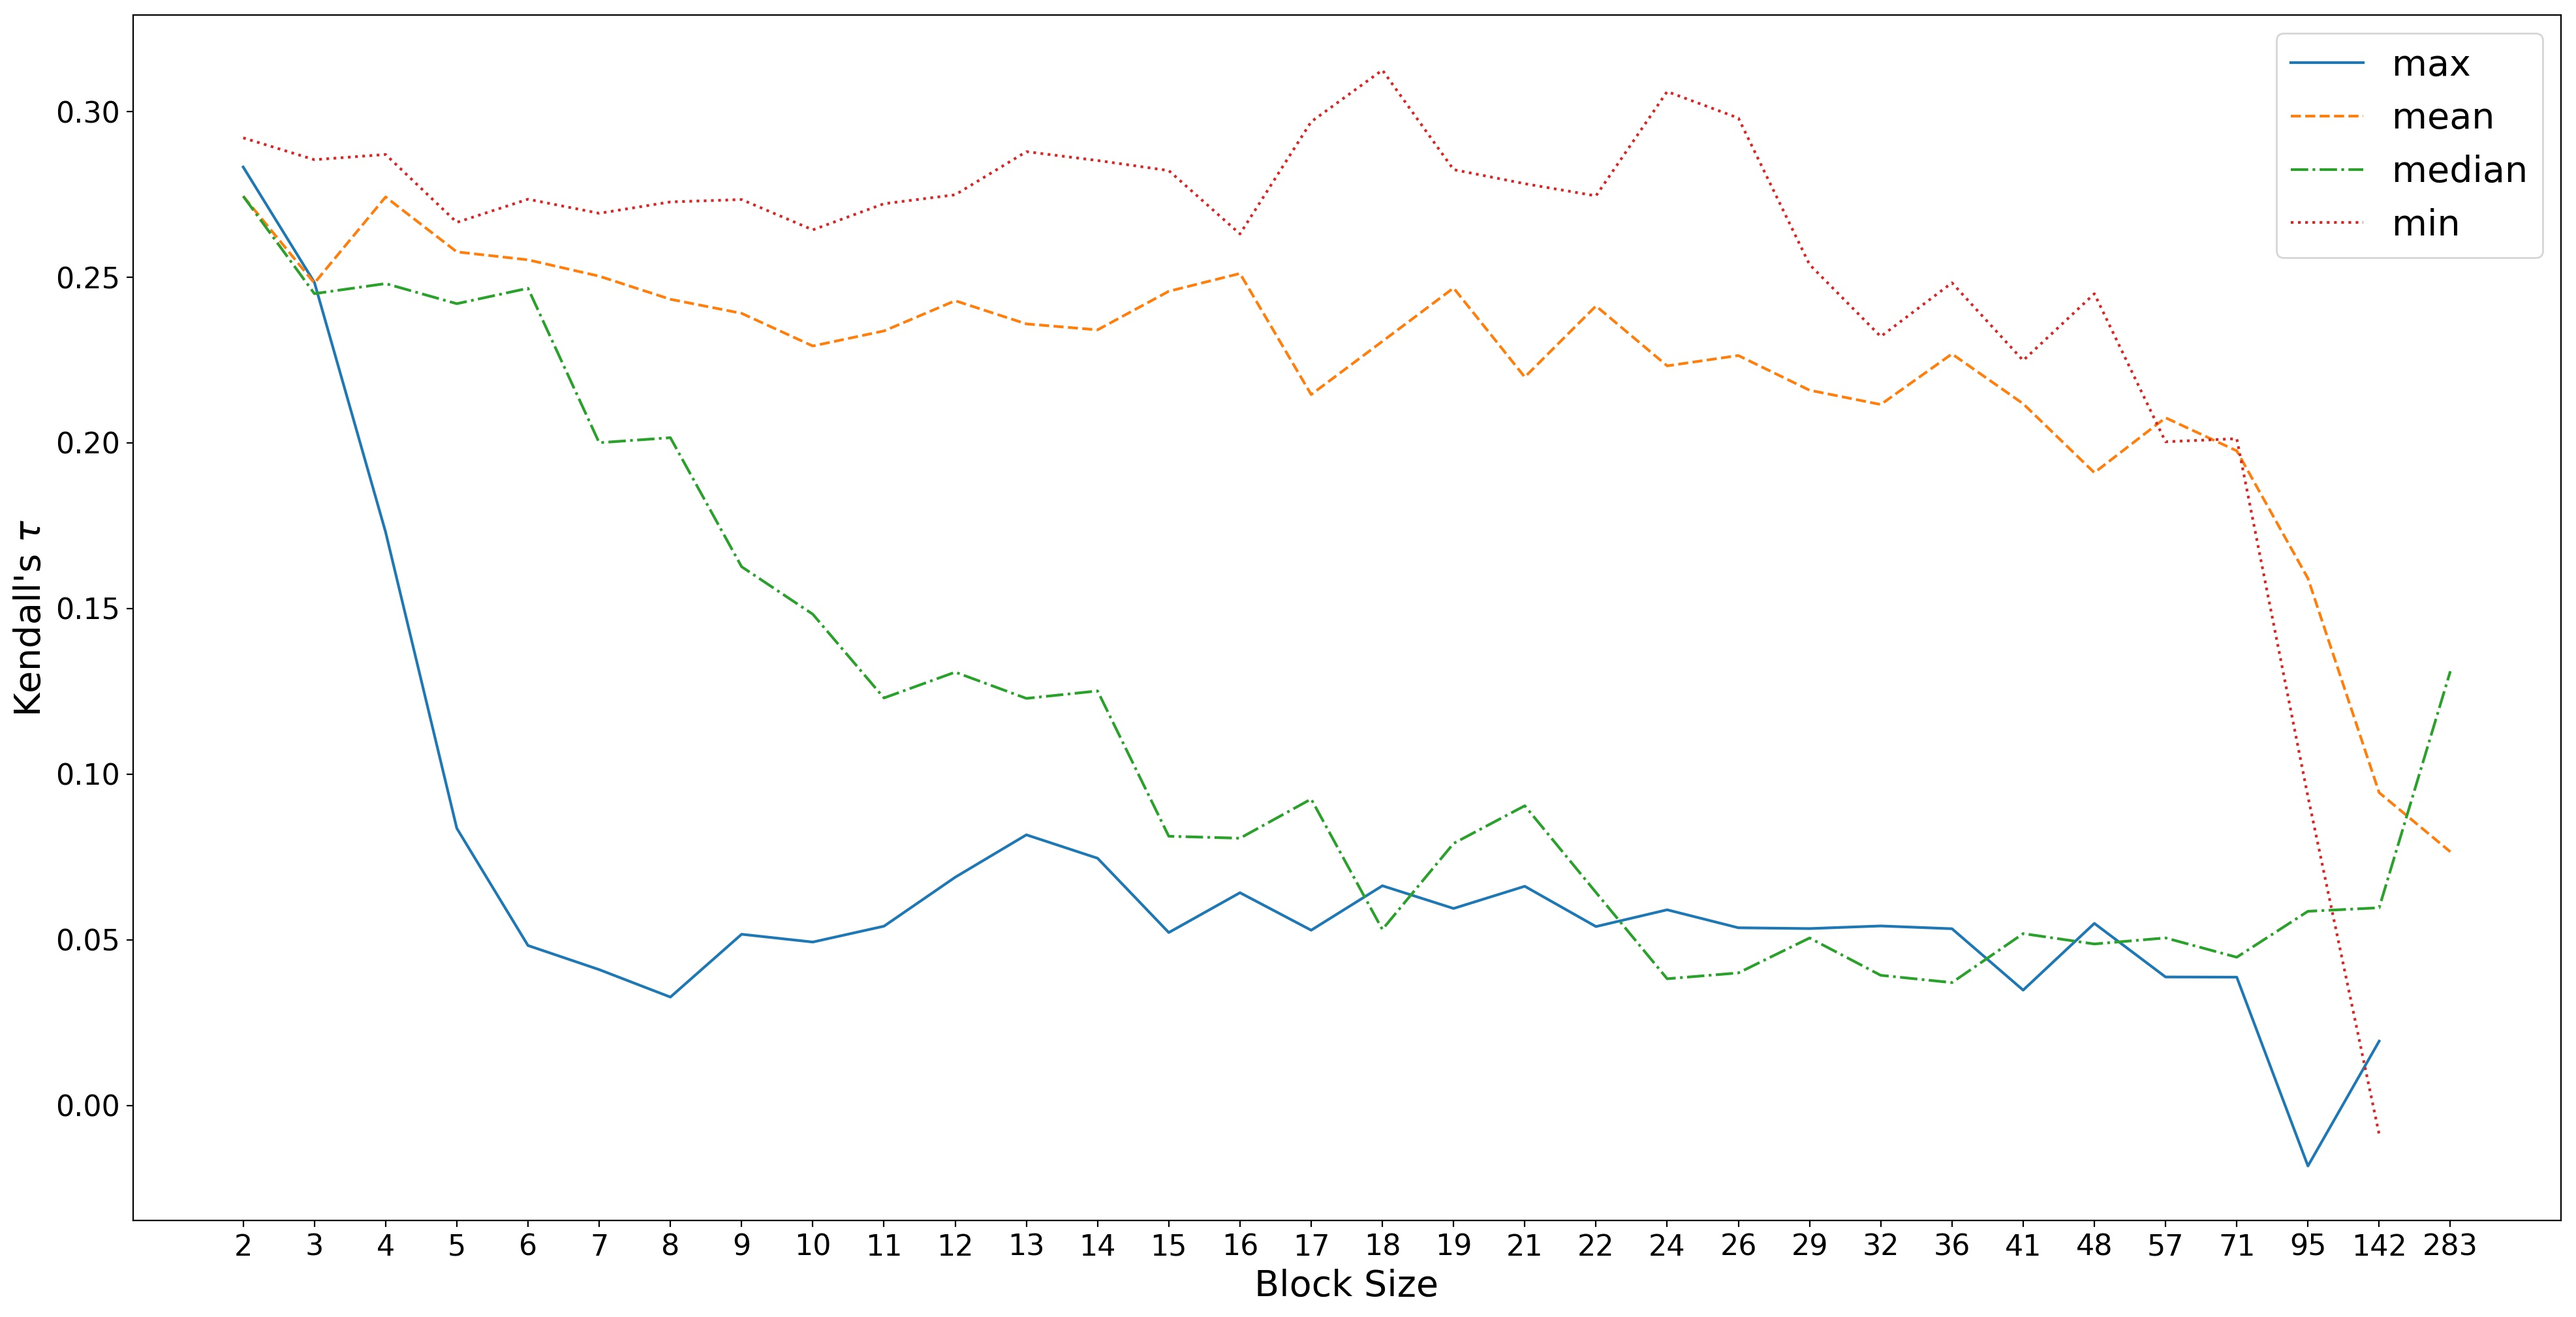
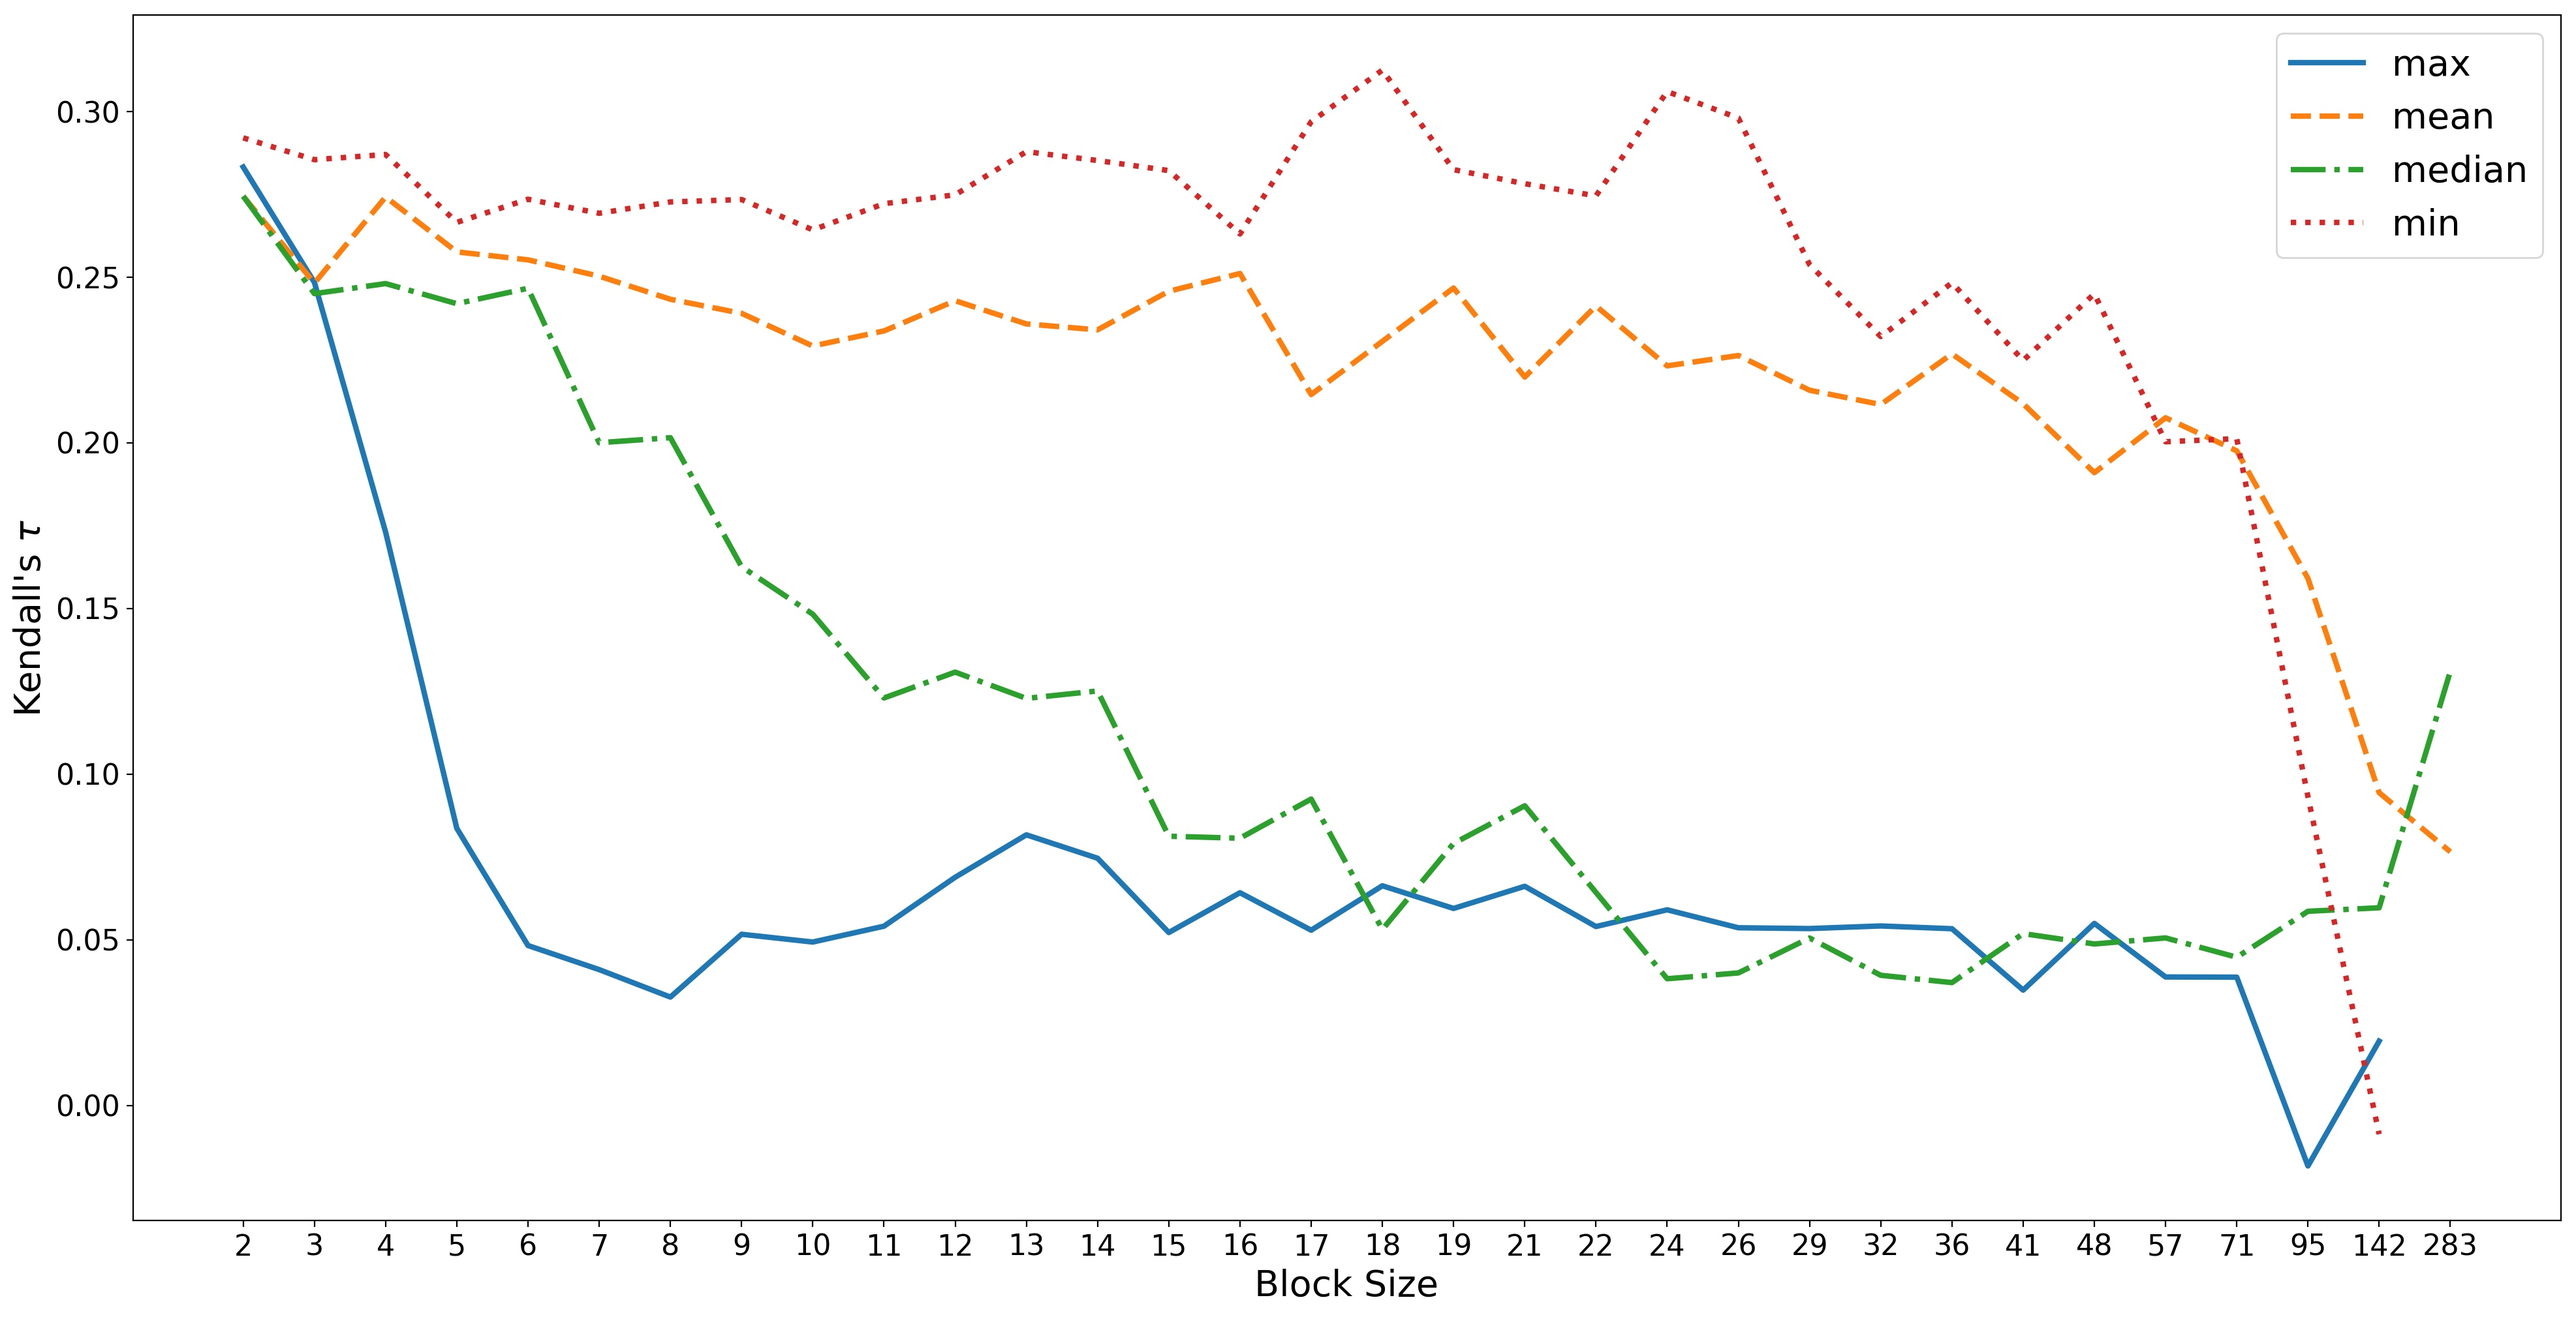
thicker lines for visualization of pixel baseline

diff --git a/code/mds/correlations/visualize_pixel_correlations.py b/code/mds/correlations/visualize_pixel_correlations.py
@@ -77,7 +77,7 @@ for metric in pixel_data.keys():
                 y_values = list(map(lambda x: x[1], sorted_values))
                 legend = list(map(lambda x: x[0], sorted_values))
                 label_list.append(aggregator)
-                ax.plot(bar_indices, y_values, line_style)
+                ax.plot(bar_indices, y_values, line_style, linewidth=3)
                 
                 # checking whether this result was better
                 max_val = max(map(lambda x: x[1], sorted_values))
